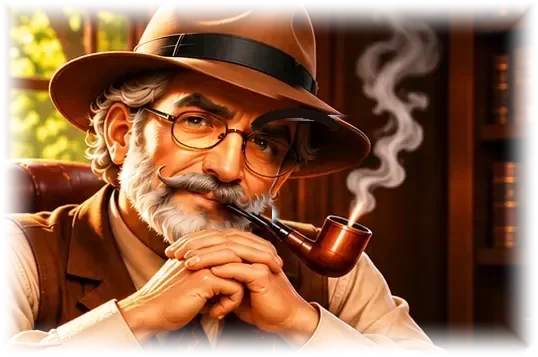
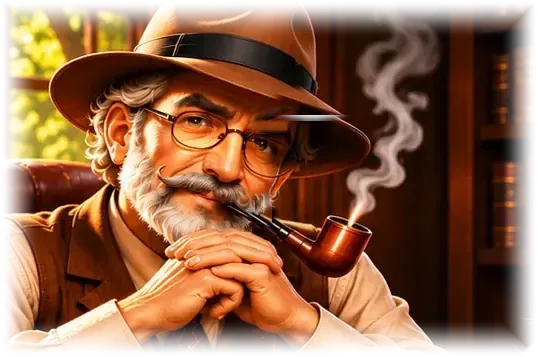
Seat the confused brow on the forehead.
The Don't-know plate had a dark arc on the hat brim. The raised brow is now the same grey-brown as the other brow, on the skin above the right eye, and the pulled mouth stays.

Changed region(s): [[0.4461, 0.3081, 0.6245, 0.3697], [0.4758, 0.5546, 0.5353, 0.6471]]

diff --git a/games/riddlex/scene.js b/games/riddlex/scene.js
@@ -3,7 +3,7 @@
 // Face and cat plates cross-fade with opacity and share that same transform.
 // Nothing is ever a shifted rectangle of the painting.
 
-import { createExpressions } from "./expressions.js?v=akinator-25";
+import { createExpressions } from "./expressions.js?v=akinator-26";
 
 const BASE = {
   landscape: "./images/approved/game-desk.webp",
@@ -669,7 +669,7 @@ export function createScene(canvas) {
 
   async function loadOverlaySet(orient) {
     const entries = await Promise.all(Object.entries(OVERLAYS[orient] || {}).map(async ([key, src]) => {
-      return [key, await loadImage(`${src}?v=akinator-25`)];
+      return [key, await loadImage(`${src}?v=akinator-26`)];
     }));
     const overlays = {};
     for (const [key, image] of entries) if (image) overlays[key] = image;
@@ -680,7 +680,7 @@ export function createScene(canvas) {
     const [base, overlays, printer] = await Promise.all([
       loadImage(BASE[orient]),
       loadOverlaySet(orient),
-      images.printer ? Promise.resolve(images.printer) : loadImage(`${PRINTER}?v=akinator-25`),
+      images.printer ? Promise.resolve(images.printer) : loadImage(`${PRINTER}?v=akinator-26`),
     ]);
     if (printer) images.printer = printer;
     return { base, overlays };

diff --git a/games/riddlex/index.html b/games/riddlex/index.html
@@ -19,7 +19,7 @@
   <meta name="twitter:description" content="Think of a real person, character, animal or object. Riddlex asks one question at a time and tries to guess.">
   <meta name="twitter:image" content="https://walid-ai.com/walid-ai-preview.jpg">
   <link rel="stylesheet" href="https://fonts.googleapis.com/css2?family=Caveat:wght@500&display=swap">
-  <link rel="stylesheet" href="./style.css?v=akinator-25">
+  <link rel="stylesheet" href="./style.css?v=akinator-26">
   <link rel="icon" href="/favicon.ico?v=20261109-pink" sizes="any">
   <link rel="icon" type="image/png" sizes="32x32" href="/favicon-32.png?v=20261109-pink">
   <link rel="apple-touch-icon" href="/apple-touch-icon.png?v=20261109-pink">
@@ -115,7 +115,7 @@
     </div>
     </div>
   </div>
-  <script type="module" src="./app.js?v=akinator-25"></script>
+  <script type="module" src="./app.js?v=akinator-26"></script>
   <script src="/usage.js?v=20261109-2"></script>
 </body>
 </html>

diff --git a/games/riddlex/app.js b/games/riddlex/app.js
@@ -3,7 +3,7 @@ import { answer as applyAnswer, canPrint, createState, decide, displayName, enti
 import { UI, guessFont } from "./i18n.js";
 import { categoryShards, imageSrc, loadManifest, loadShards, mergePools, planShardLoads, poolFromEntries, traffic } from "./kb.js";
 import { answersImplyAdult, loadLearned, nameMatchesAdult, submitLearning } from "./learn.js";
-import { createScene } from "./scene.js?v=akinator-25";
+import { createScene } from "./scene.js?v=akinator-26";
 
 const $ = (id) => document.getElementById(id);
 const menu = $("menu");
